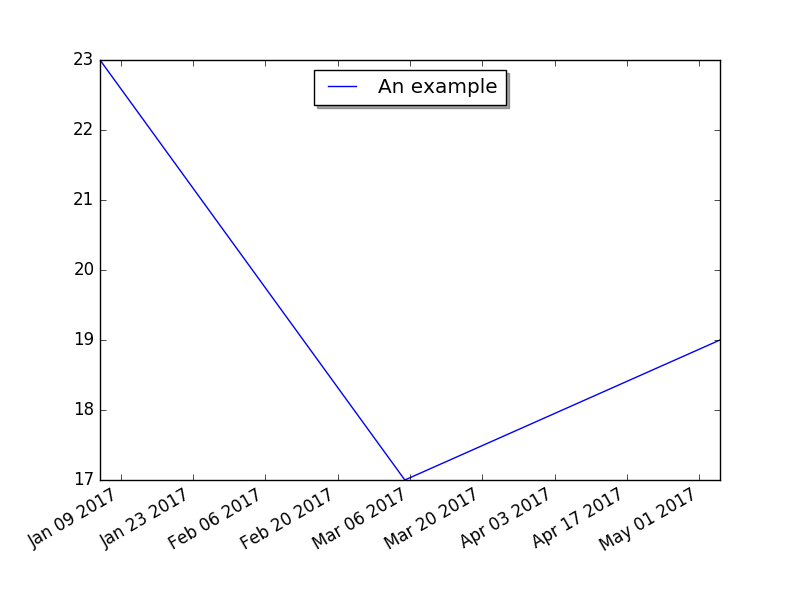
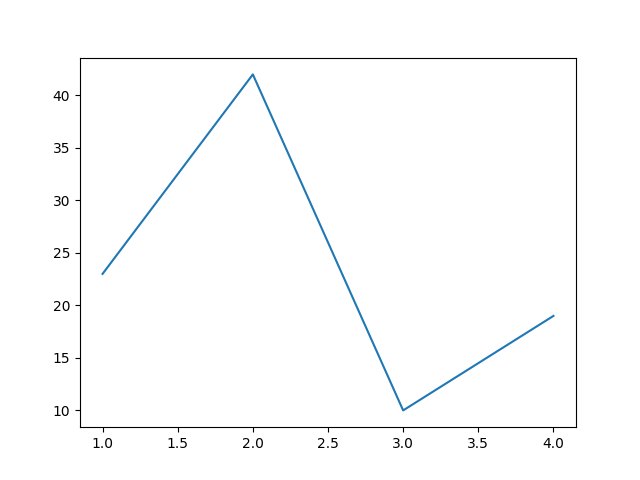
update matplotlib

diff --git a/python-programming/examples/matplotlib/line.py b/python-programming/examples/matplotlib/line.py
@@ -1,13 +1,9 @@
-import datetime
 import matplotlib.pyplot as plt
 
-fig, subplots = plt.subplots()
-subplots.plot(
-    [datetime.date(2017, 1, 5), datetime.date(2017, 3, 5), datetime.date(2017, 5, 5)],
-    [ 23, 17, 19 ],
-    label='An example',
+fig, ax = plt.subplots()
+ax.plot(
+    [ 1,  2,   3,  4 ],
+    [ 23, 42, 10, 19 ],
 )
-subplots.legend(loc='upper center', shadow=True)
-fig.autofmt_xdate()
-#plt.show()
-plt.savefig('line.png')
+plt.show()
+#plt.savefig('line.png')

diff --git a/python-programming/examples/matplotlib/line_with_dates.py b/python-programming/examples/matplotlib/line_with_dates.py
@@ -1,0 +1,13 @@
+import datetime
+import matplotlib.pyplot as plt
+
+fig, subplots = plt.subplots()
+subplots.plot(
+    [datetime.date(2017, 1, 5), datetime.date(2017, 3, 5), datetime.date(2017, 5, 5)],
+    [ 23, 17, 19 ],
+    label='An example',
+)
+subplots.legend(loc='upper center', shadow=True)
+fig.autofmt_xdate()
+plt.show()
+#plt.savefig('line_with_dates.png')
